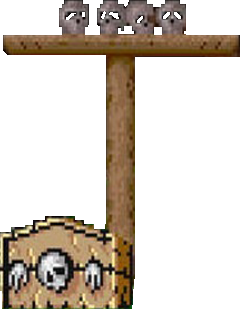
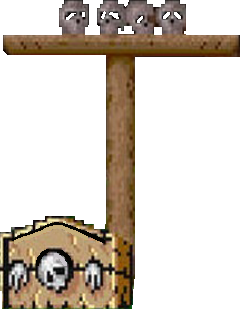
holes 1

Changed region(s): [[0.0583, 0.699, 0.4375, 0.7864], [0.1458, 0.7864, 0.2042, 0.8738], [0.2333, 0.8155, 0.2917, 0.8738]]

diff --git a/other/mario-contra/helper.js b/other/mario-contra/helper.js
@@ -9,9 +9,12 @@ class SpriteGroupHelper {
         const floor1Height = 5.5;
         const canvasHeight = this.scene.sys.canvas.height;
 
+        const holes = [9, 45, 75, 130];
+
         for (let i = 0; i < 240; i++) {
             const x = i * tileWidth;
-            const sprite = this.scene.add.sprite(x, canvasHeight - 50, 'grass');
+            let texture = 'grass';
+            const sprite = this.scene.add.sprite(x, canvasHeight - 50, texture);
             spriteGroup.add(sprite);
         }
 

diff --git a/other/mario-contra/level1.1.js b/other/mario-contra/level1.1.js
@@ -8,6 +8,7 @@ class Scene1_1 extends MainScene {
 
         this.load.image('brick', 'files/cross.png');
         this.load.image('grass', 'files/grass.png');
+        this.load.image('hole', 'files/holeBlack.png');
         this.load.image('turtle', 'files/zombie.png');
         this.load.image('cloud', 'files/distant-mountain.png');
         this.load.image('stocks', 'files/stocks.png');

diff --git a/other/mario-contra/mariocontra.js b/other/mario-contra/mariocontra.js
@@ -97,7 +97,7 @@ class MainScene extends Phaser.Scene {
 
     _isEnemy(child) {
         const pic = child.texture.key;
-        return pic === 'gumba' || pic === 'gumbaL' || pic === 'turtle'
+        return pic === 'gumba' || pic === 'gumbaL' || pic === 'turtle' || pic === 'hole'
             || pic.startsWith('runner') || pic.startsWith('scorp');
     }
 
